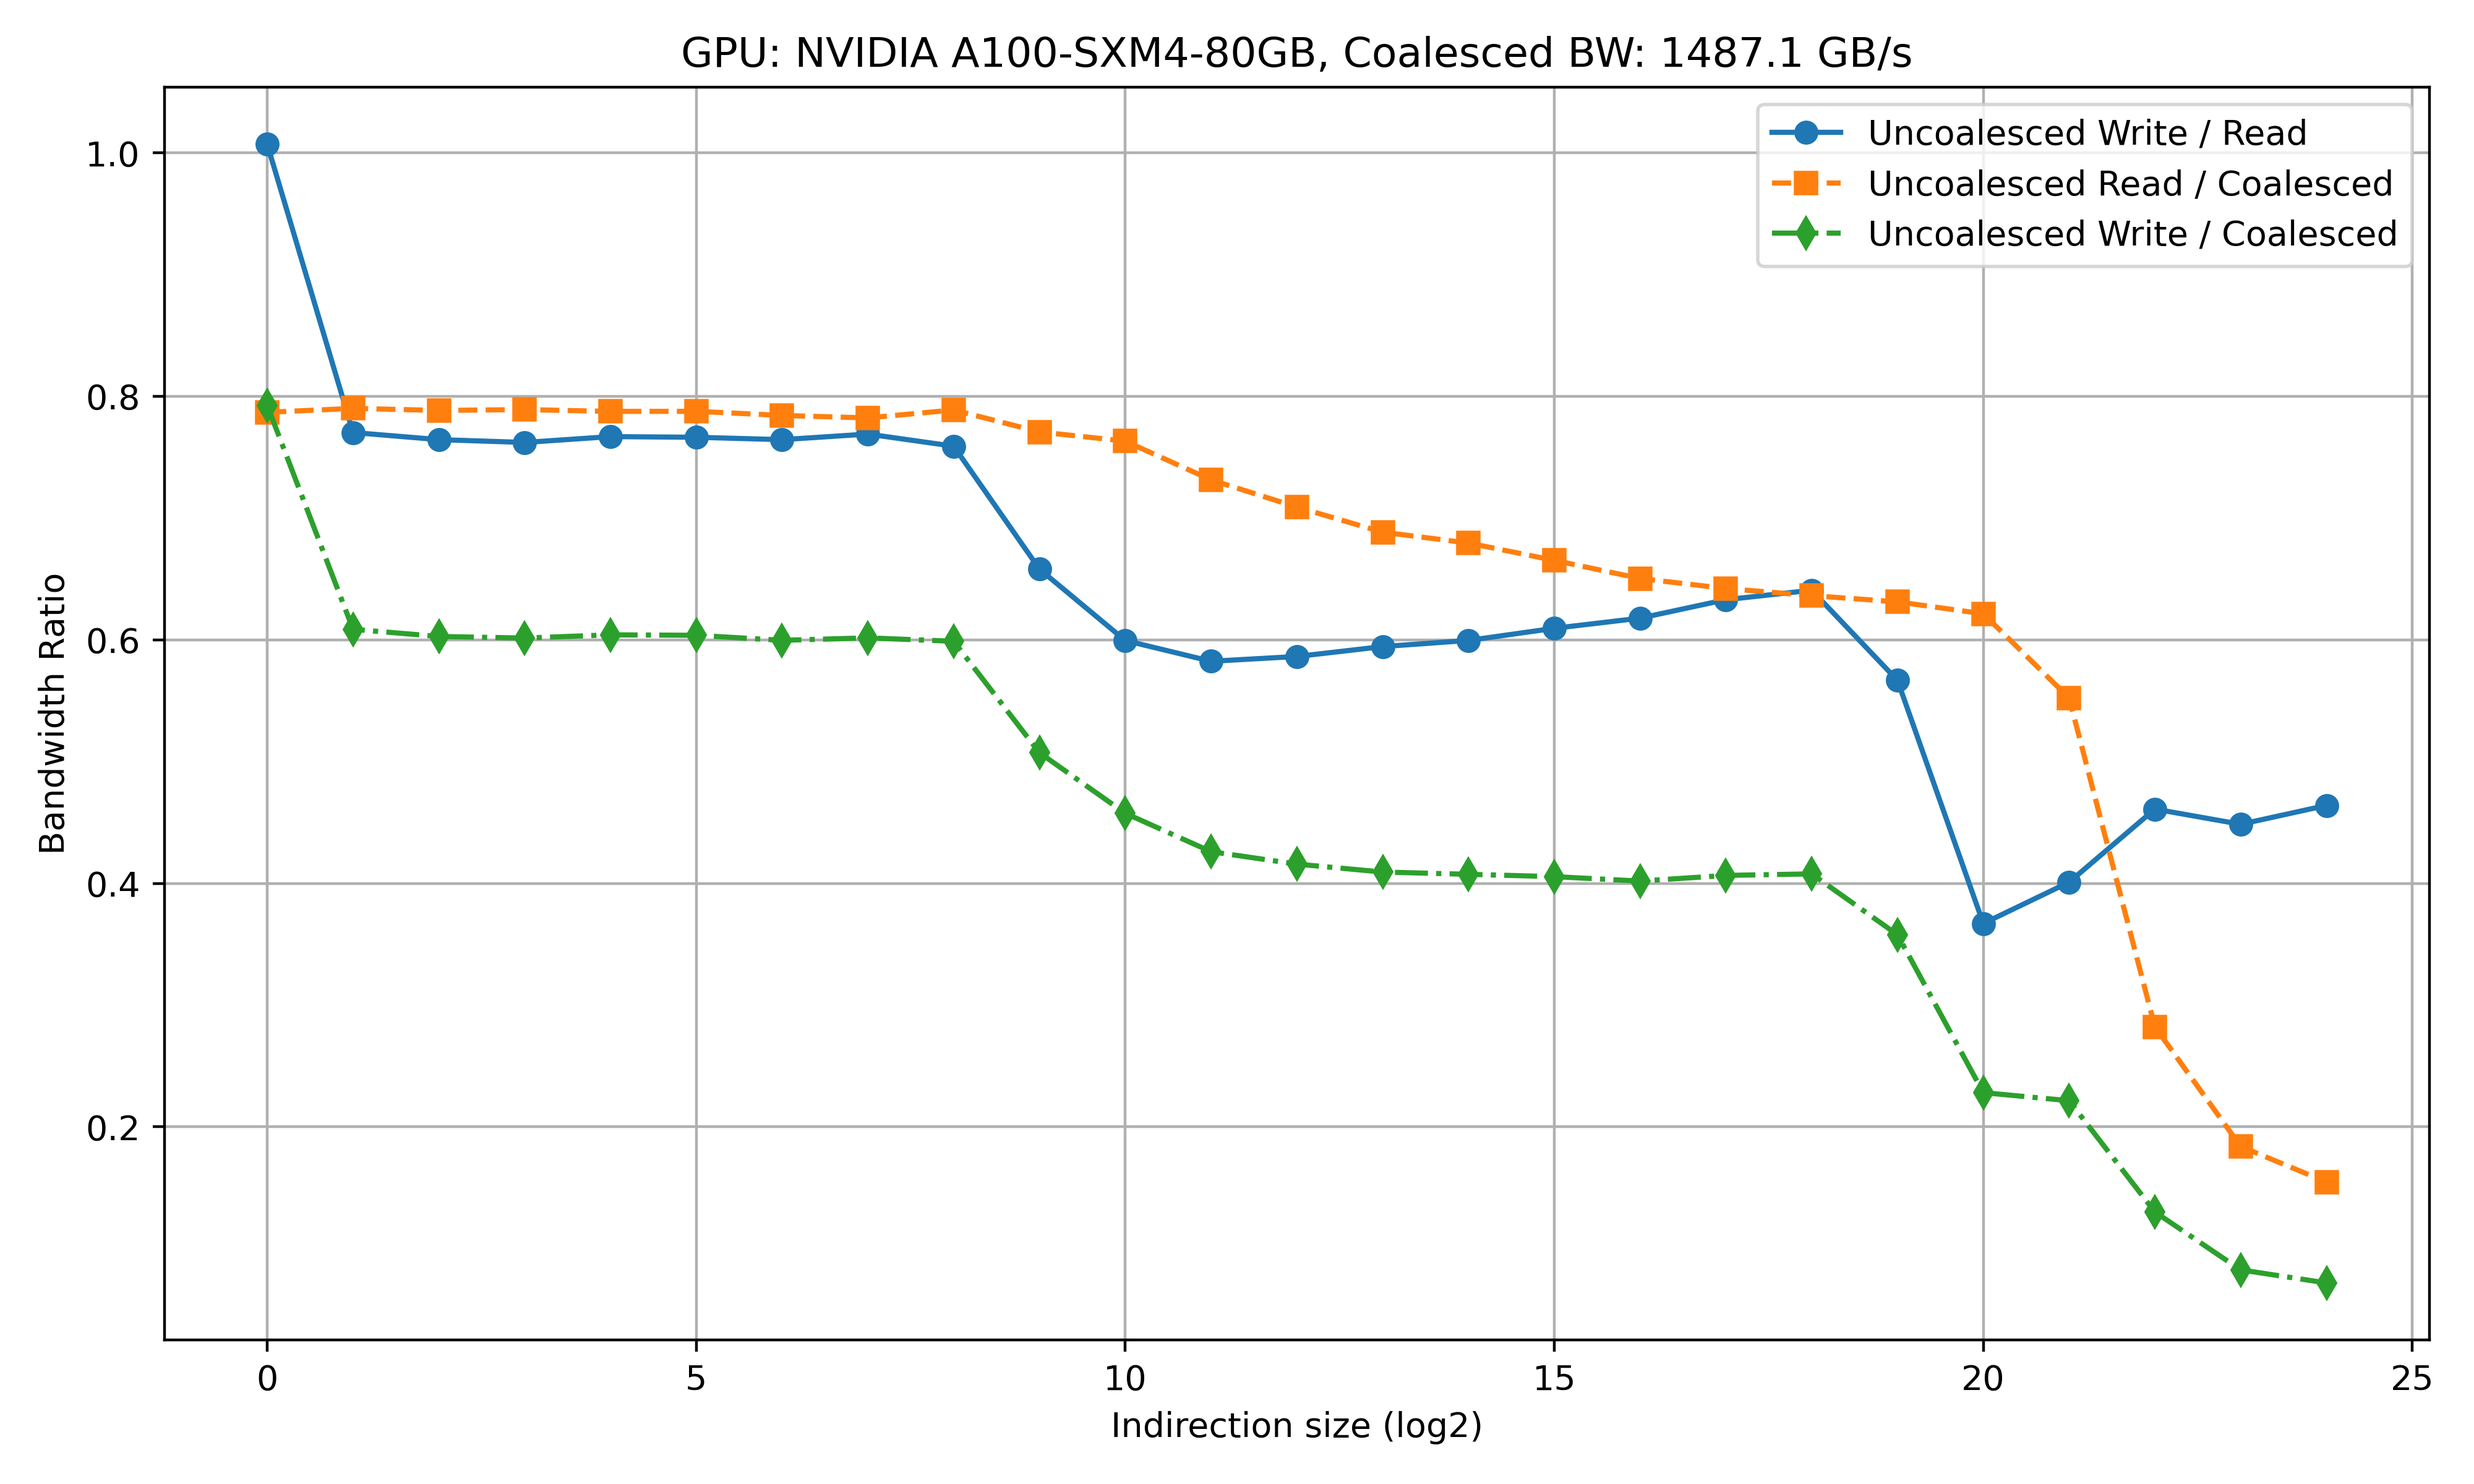
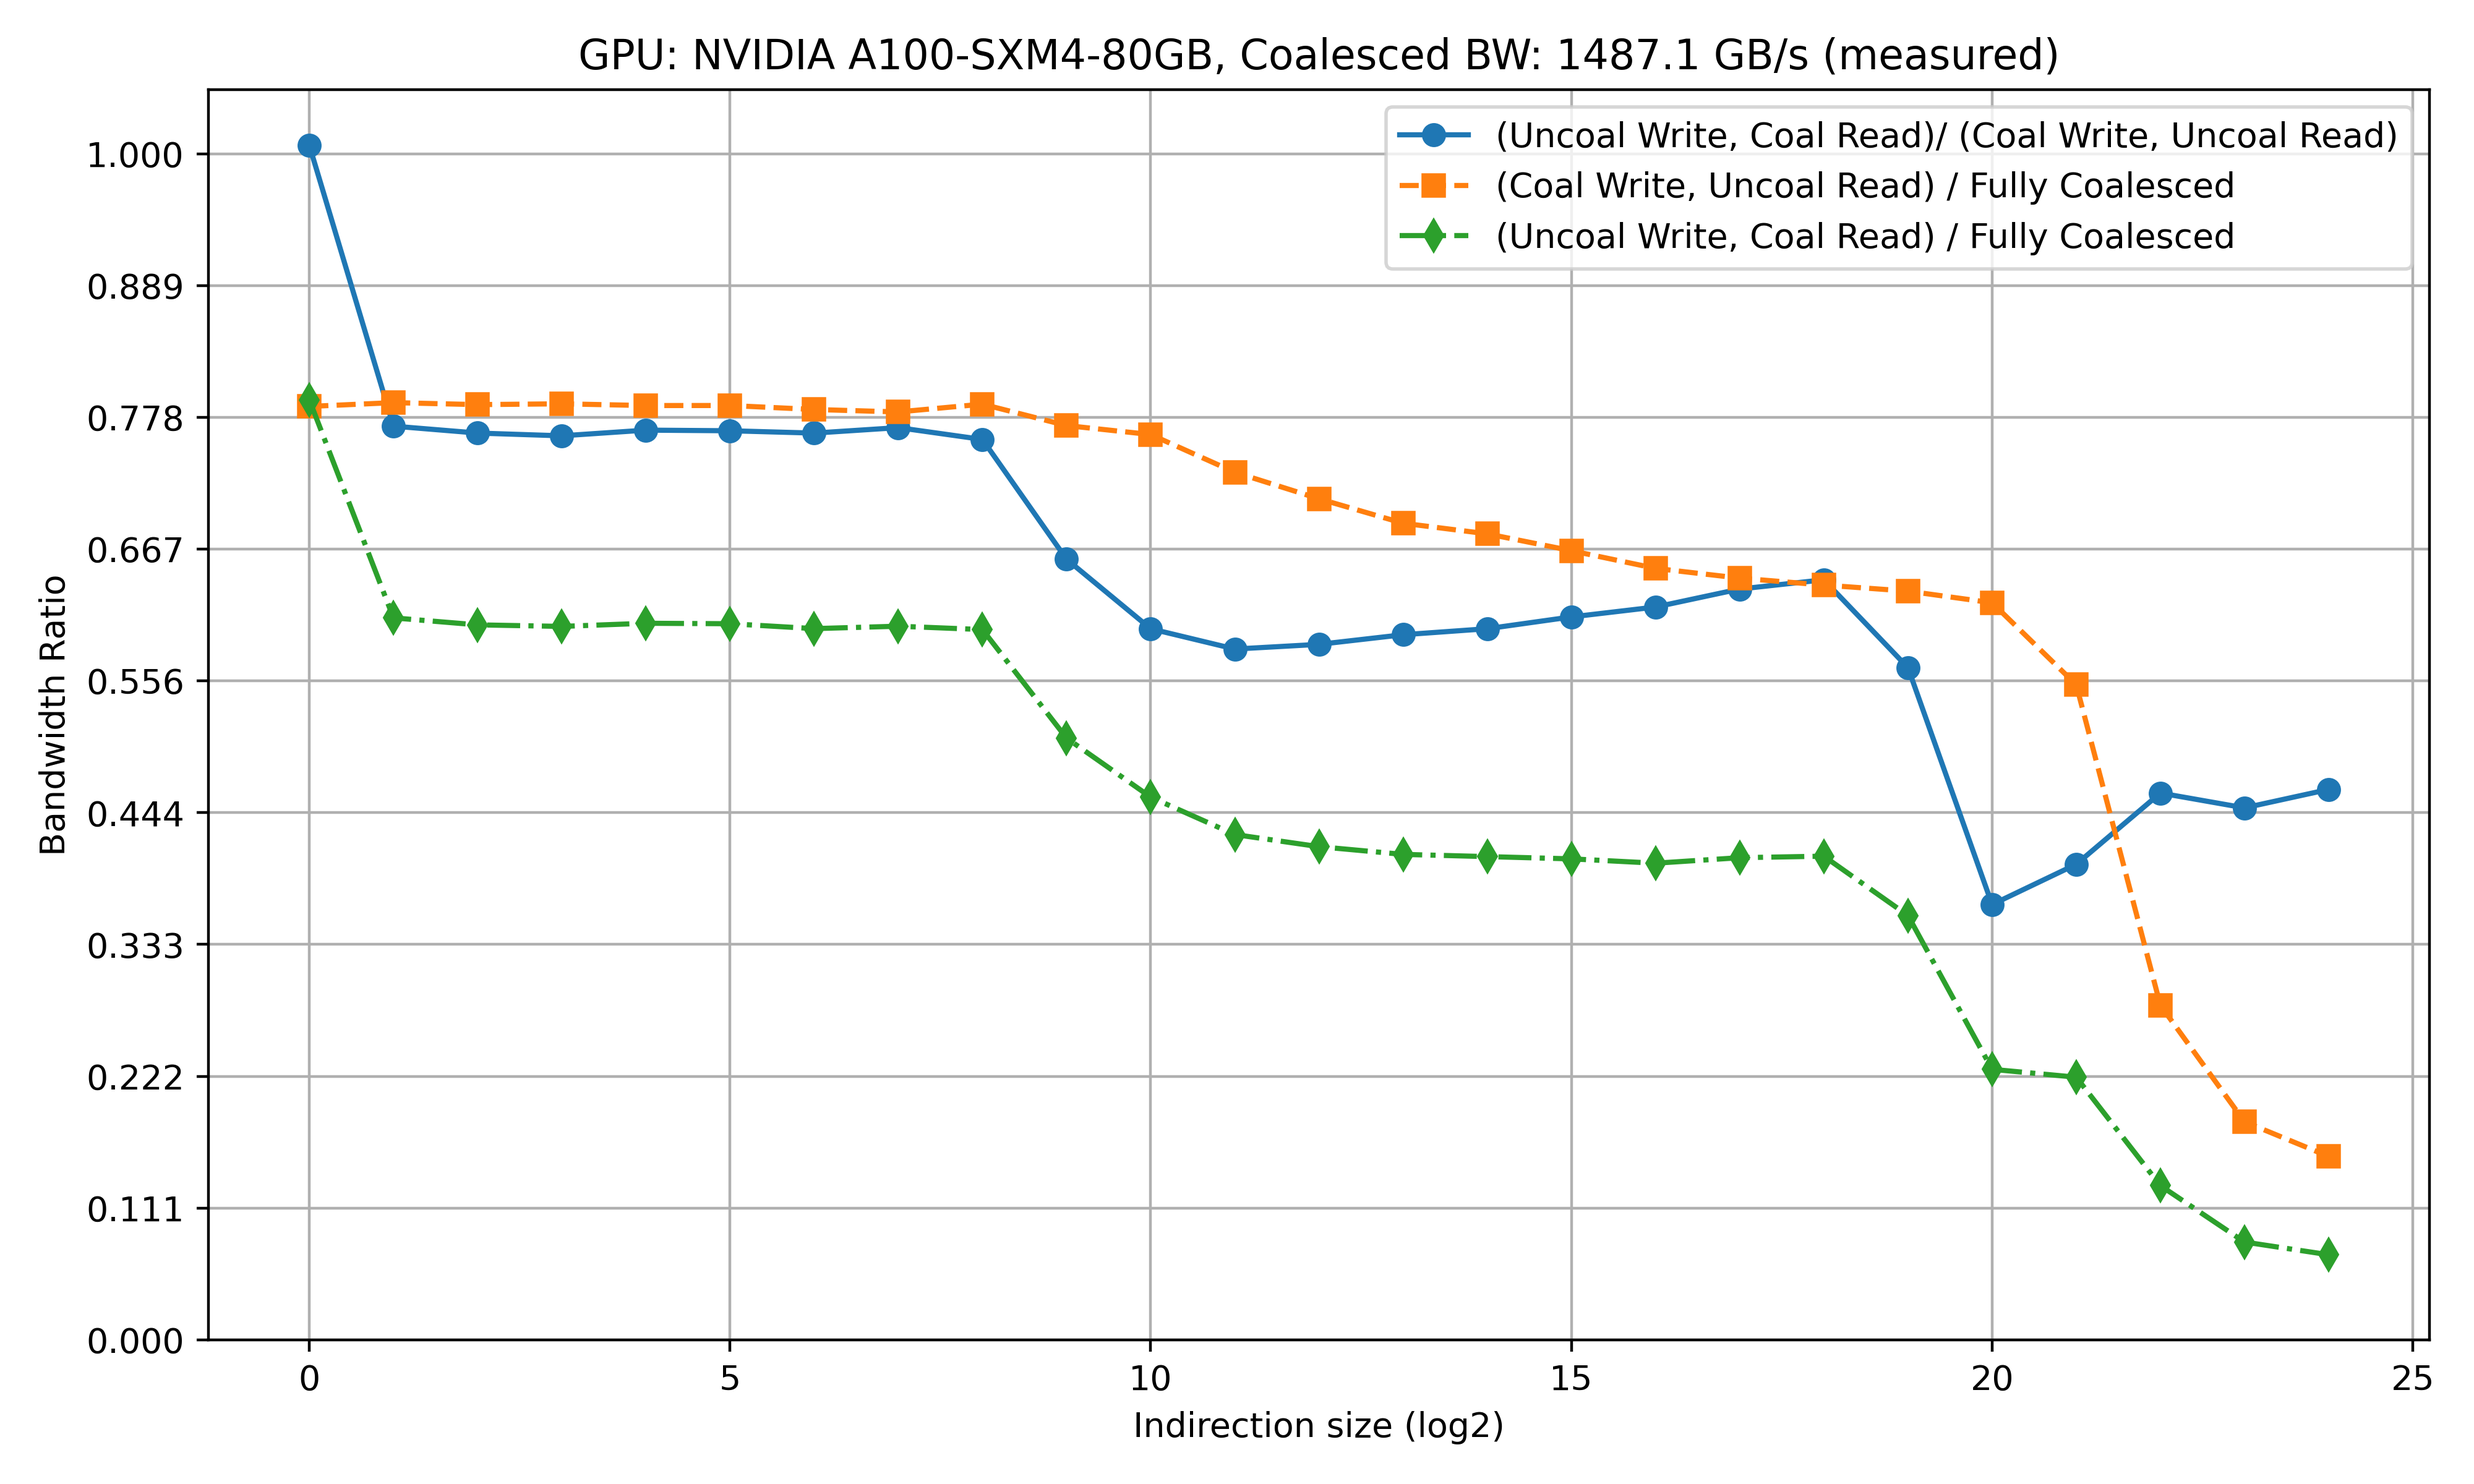
update with paul's suggestions

diff --git a/plot.py b/plot.py
@@ -46,14 +46,15 @@ write_coalesced_ratio = unco_write / coalesced
 
 # Estimate coalesced BW (mean or first value)
 avg_coalesced_bw = np.mean(coalesced)
-coalesced_bw_label = f", Coalesced BW: {avg_coalesced_bw:.1f} GB/s"
+coalesced_bw_label = f", Coalesced BW: {avg_coalesced_bw:.1f} GB/s (measured)"
 
 # === Plotting ===
 plt.figure(figsize=(10, 6))
-plt.plot(indirection, read_write_ratio, 'o-', label='Uncoalesced Write / Read')
-plt.plot(indirection, read_coalesced_ratio, 's--', label='Uncoalesced Read / Coalesced')
-plt.plot(indirection, write_coalesced_ratio, 'd-.', label='Uncoalesced Write / Coalesced')
+plt.plot(indirection, read_write_ratio, 'o-', label='(Uncoal Write, Coal Read)/ (Coal Write, Uncoal Read)')
+plt.plot(indirection, read_coalesced_ratio, 's--', label='(Coal Write, Uncoal Read) / Fully Coalesced ')
+plt.plot(indirection, write_coalesced_ratio, 'd-.', label='(Uncoal Write, Coal Read) / Fully Coalesced')
 
+plt.yticks(np.linspace(0, 1, num=10))
 plt.xlabel('Indirection size (log2)')
 plt.ylabel('Bandwidth Ratio')
 plt.title(f'GPU: {basename.replace("_", " ")}'+coalesced_bw_label)
@@ -62,6 +63,5 @@ plt.legend()
 
 plt.tight_layout()
 plt.savefig(output_image, dpi=400)
-plt.show()
 
 print(f"Plot saved as: {output_image}")

diff --git a/README.md b/README.md
@@ -44,11 +44,10 @@ Note: Coalesced BW exceeds H100 BW (2TB/s), i was unable to erase cache... . I s
 ![Nvidia V100](results/Tesla_V100-SXM2-32GB_ratios.png)
 ![Nvidia A100](results/NVIDIA_A100-SXM4-80GB_ratios.png)
 ![Nvidia H100](results/NVIDIA_H100_80GB_HBM3_ratios.png)
-![Nvidia A6000 Ada](results/NVIDIA_RTX_6000_Ada_Generation_ratios.png)
 ---
 
-## 3. Interpretation
-
+## 3. Interpretation (courtesy of Florent Duguet @ Nvidia)
+During non-coalesced read access, the various caches are populated with data, but different SMs accessing different data from the same cache line only replicate the read (from L2 cache to L1 cache). In the case of a write access, the L1 caches must be merged into the L2 cache to maintain coherence, which requires additional processing by the memory units.
 
 ## 4. Compilation and Run Instructions
 
